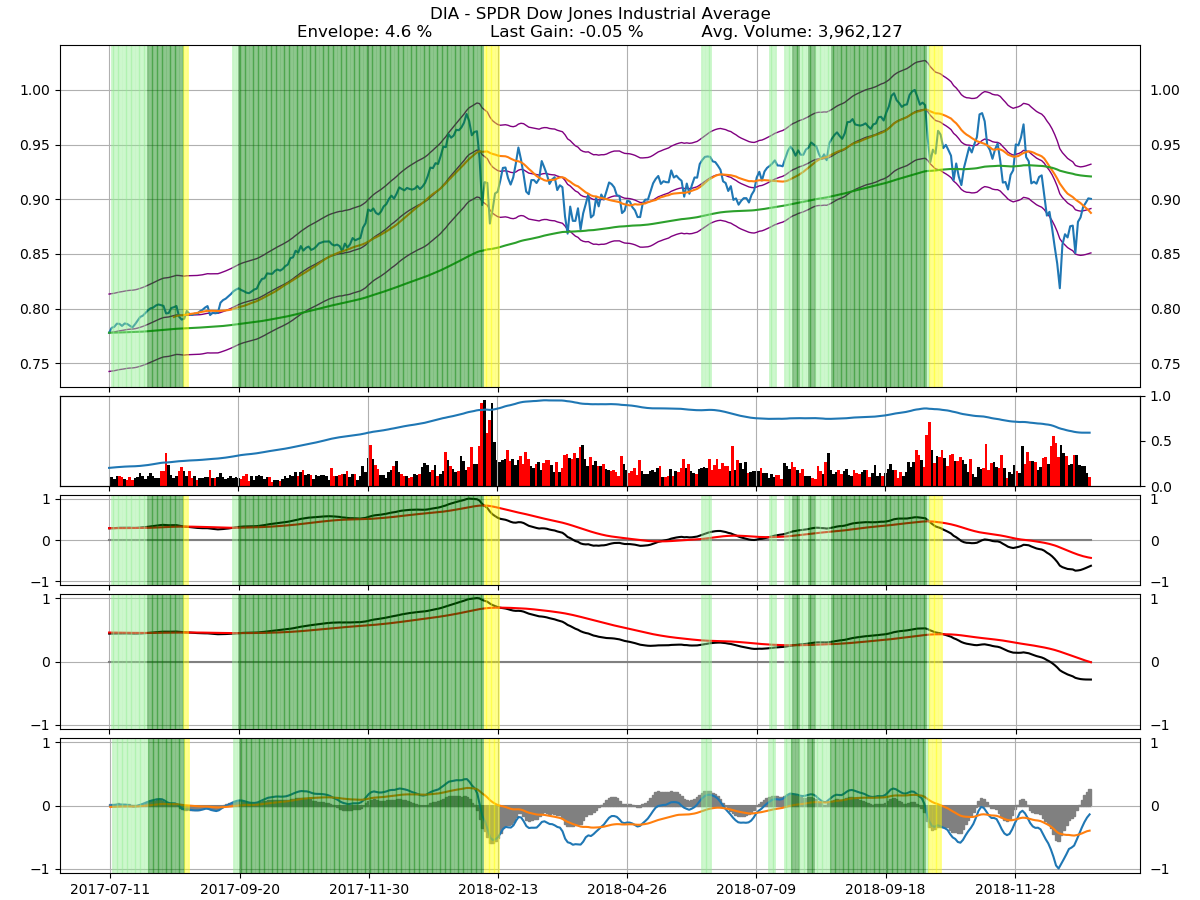
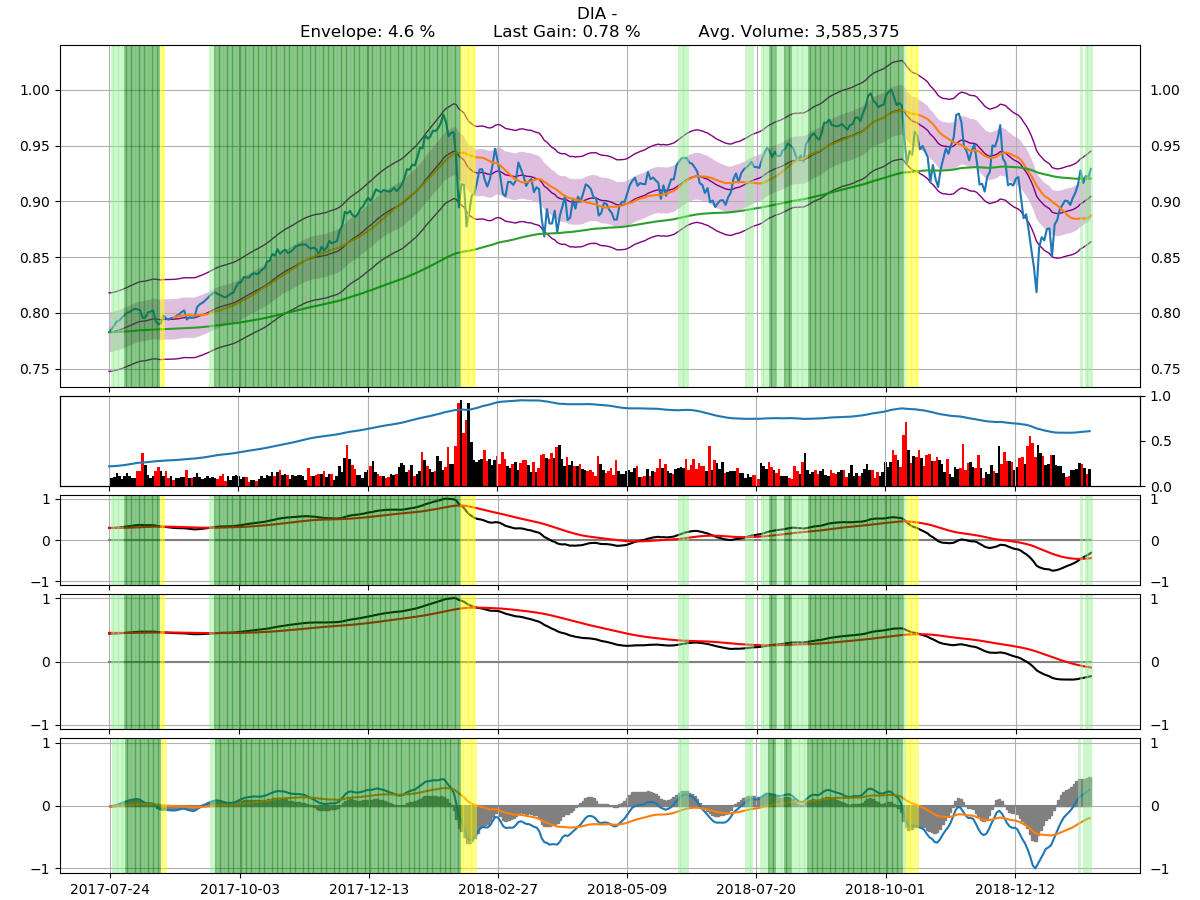
working for all of january

diff --git a/processStockData.py b/processStockData.py
@@ -38,21 +38,23 @@ class stock_data:
     def hist_prices(self, stock, end):
 
         self.stock = stock.upper()
+        # print("here1")
         try:
             self.stock_df = data.DataReader(self.stock, 'iex', self.start, end)
         except:
             print("ignore this stock 1---------------" + str(self.stock))
             return True
-
+        # print("here2")
         self.row, col = self.stock_df.shape
         if self.row < 100:
             print("not enough data" + str(self.stock))
             return True
-        print(self.stock_df.index[self.row - 1], str(end)[0:10])
+        # print(self.stock_df.index[self.row - 1], str(end)[0:10])
         if self.stock_df.index[self.row - 1] == str(end)[0:10]:
-            print("drop")
+            # print("drop")
             self.stock_df = self.stock_df.drop(self.stock_df.index[self.row - 1])
             self.row, col = self.stock_df.shape
+        # print("here3")
         if self.stock_df.index[self.row - 1] != str(end)[0:10]:
             stock_quote = iex.Stock(self.stock)
             try:
@@ -78,13 +80,18 @@ class stock_data:
                 f_day.index.name = 'date'
                 self.stock_df = self.stock_df.append(f_day.ix[0])
 
+        # print("here4")
         self.row, col = self.stock_df.shape
-
+        # print(self.stock_df)
+        if self.stock_df.isnull().values.any() == True:
+            print("nans in stockdf", stock)
+            return True
+        # print("here41")
         self.stock_df = self.stock_df.set_index(pd.to_datetime(self.stock_df.index))
         self.data_years = self.row - int(round(253 * self.pull_years, 0))
         self.stock_df['date'] = self.stock_df.index.map(mdates.date2num)
         self.stock_df['averaged_close'] = self.stock_df['close'].ewm(span=4, adjust=False).mean()
-
+        # print("here42")
         # calculate MACD parameters
         self.stock_df['ema12'] = self.stock_df['close'].ewm(span=30, adjust=False).mean()
         self.stock_df['ema26'] = self.stock_df['close'].ewm(span=65, adjust=False).mean()
@@ -96,16 +103,22 @@ class stock_data:
         self.stock_df['weekly_red'] = self.stock_df['weekly_black'].ewm(span=45, adjust=False).mean()
         self.stock_df['sma_26'] = self.stock_df['close'].rolling(window=26).mean()
         self.stock_df['ema_200'] = self.stock_df['close'].ewm(span=200, adjust=False).mean()
-
+        # print("here43")
         env_percent = .04
         self.stock_df['fit_env'] = 0
+        # pd.set_option('display.max_rows', 5000)
+
+
+        # print(self.stock_df['high'].isnull().values.any())
         while self.stock_df['fit_env'].mean() <= .9:
             self.stock_df['ema26_highenv'] = self.stock_df['ema26'] * (1 + env_percent)
             self.stock_df['ema26_lowenv'] = self.stock_df['ema26'] * (1 - env_percent)
             self.stock_df['fit_env'] = np.where((self.stock_df['ema26_highenv'] >= self.stock_df['high']) &
                                                 (self.stock_df['ema26_lowenv'] <= self.stock_df['low']), 1, 0)
+            # print(self.stock_df['fit_env'].mean())
             env_percent += .005
 
+        # print("here5")
         pd.options.mode.chained_assignment = None
         self.stock_df['obv_volume'] = 0
         self.stock_df['obv_volume'][0] = self.stock_df['volume'][0]
@@ -125,13 +138,17 @@ class stock_data:
 
 
         self.stock_df['close_from_top_env'] = self.stock_df['ema26_highenv'] - self.stock_df['close']
+        print(self.row)
         if self.row > 5:
             self.stock_df['daily_black_deriv'] = np.gradient(self.stock_df['daily_black'])
             self.stock_df['daily_red_deriv'] = np.gradient(self.stock_df['daily_red'])
             self.stock_df['weekly_black_deriv'] = np.gradient(self.stock_df['weekly_black'])
             self.stock_df['weekly_red_deriv'] = np.gradient(self.stock_df['weekly_red'])
             self.stock_df['ema_200_slope'] = np.gradient(self.stock_df['ema_200'])
-
+        elif self.row < 5:
+            print("gradient row error", str(self.stock))
+            return True
+        # print("here6")
         self.stock_df['decision'] = 0
         self.stock_df['stock-name'] = stock
         self.stock_df['performance'] = 0
@@ -139,6 +156,11 @@ class stock_data:
         self.short_stock_df = self.stock_df[self.data_years:]
         self.short_norm_stock_df = self.stock_df[self.data_years:]
         self.row, col = self.short_norm_stock_df.shape
+
+        if self.row < 5:
+            print("gradient row error", str(self.stock))
+            return True
+
         self.short_norm_stock_df['open'] = self.short_norm_stock_df['open'] / self.short_norm_stock_df['open'].max()
         self.short_norm_stock_df['high'] = self.short_norm_stock_df['high'] / self.short_norm_stock_df['high'].max()
         self.short_norm_stock_df['low'] = self.short_norm_stock_df['low'] / self.short_norm_stock_df['low'].max()
@@ -158,7 +180,7 @@ class stock_data:
 
         self.short_norm_stock_df['daily_black'] = self.short_norm_stock_df['daily_black'] / daily_max
         self.short_norm_stock_df['daily_red'] = self.short_norm_stock_df['daily_red'] / daily_max
-
+        # print("here7")
         weekly_max = self.short_norm_stock_df['weekly_black'].abs().max()
         if weekly_max < self.short_norm_stock_df['weekly_red'].abs().max():
             weekly_max = self.short_norm_stock_df['weekly_red'].abs().max()
@@ -166,6 +188,7 @@ class stock_data:
         self.short_norm_stock_df['weekly_black'] = self.short_norm_stock_df['weekly_black'] / weekly_max
         self.short_norm_stock_df['weekly_red'] = self.short_norm_stock_df['weekly_red'] / weekly_max
         self.short_norm_stock_df['fit_env'] = 0
+        self.env_percent = 0.04
         while self.short_norm_stock_df['fit_env'].mean() <= .95:
             self.short_norm_stock_df['ema26_highenv'] = self.short_norm_stock_df['ema26'] * (1 + self.env_percent)
             self.short_norm_stock_df['ema26_lowenv'] = self.short_norm_stock_df['ema26'] * (1 - self.env_percent)
@@ -207,7 +230,7 @@ class stock_data:
             self.short_norm_stock_df['weekly_black_deriv'] = self.short_norm_stock_df['weekly_black_deriv'] / weekly_slope_max
             self.short_norm_stock_df['weekly_red_deriv'] = self.short_norm_stock_df['weekly_red_deriv'] / weekly_slope_max
             self.short_norm_stock_df['weekly_slope_histogram'] = self.short_norm_stock_df['weekly_black_deriv'] - self.short_norm_stock_df['weekly_red_deriv']
-
+        # print("here8")
         return False
 
     def plot_chart(self):
@@ -236,6 +259,7 @@ class stock_data:
         ax.plot(np.arange(len(self.short_norm_stock_df.index)), self.short_norm_stock_df['close'])
         ax.plot(np.arange(len(self.short_norm_stock_df.index)), self.short_norm_stock_df['sma_26'])
         ax.plot(np.arange(len(self.short_norm_stock_df.index)), self.short_norm_stock_df['ema_200'])
+        ax.fill_between(np.arange(len(self.short_norm_stock_df.index)), self.short_norm_stock_df['ema26']*(1 + self.env_percent/2), self.short_norm_stock_df['ema26']*(1 - self.env_percent/2), facecolor='purple', alpha=0.25)
 
         ax.set_title(self.stock + " - " + self.stock_name + "\nEnvelope: " + str(round(self.env_percent*100,1)) + " %" + "           " + self.last_gain + "           Avg. Volume: " + str("{:,}".format(int(self.avg_volume))))
         ax.grid(True, which='both')
@@ -311,8 +335,8 @@ class stock_data:
         if len(stock_gain) == 0:
             print("length zero")
             stock_gain = pd.DataFrame(data=[0])
-        print(round(stock_gain, 1))
-        print("Mean gain: ", round(stock_gain.mean(), 1), "%")
+        # print(round(stock_gain, 1))
+        # print("Mean gain: ", round(stock_gain.mean(), 1), "%")
 
         i = 0
         price_up = 0
@@ -321,14 +345,14 @@ class stock_data:
         ax.fill
         for i in range(1, self.row):
             if self.weekly_red_above_zero(i) == True and self.daily_red_above_zero(i) == True and self.price_above_EMA200(i) == True and self.obv_volume_slope_up(i) == True and self.EMA200_slope_up(i) == True:# and crossed_up == False:
-                if i + 1 != self.row:
-                    price_up = self.short_norm_stock_df['open'][i + 1]
-
-                    ax.axvline(x=i, color='green', linewidth=2, alpha=0.5)
-                    ax3.axvline(x=i, color='green', linewidth=2, alpha=0.5)
-                    ax4.axvline(x=i, color='green', linewidth=2, alpha=0.5)
-                    ax6.axvline(x=i, color='green', linewidth=2, alpha=0.5)
-                    bought = True
+                # if i + 1 != self.row:
+                    # price_up = self.short_norm_stock_df['open'][i + 1]
+                # print(i, self.short_norm_stock_df.index[i])
+                ax.axvline(x=i, color='green', linewidth=2, alpha=0.5)
+                ax3.axvline(x=i, color='green', linewidth=2, alpha=0.5)
+                ax4.axvline(x=i, color='green', linewidth=2, alpha=0.5)
+                ax6.axvline(x=i, color='green', linewidth=2, alpha=0.5)
+                    # bought = True
 
             # elif self.weekly_red_above_zero(i) == False and bought == True and crossed_up == True:
             #     ax.axvline(x=i, color='red', linewidth=2)
@@ -542,6 +566,6 @@ class stock_data:
 
     def price_above_EMA200(self, effective_row):
         passCriteria = False
-        if self.short_norm_stock_df['close'][effective_row] >= self.short_norm_stock_df['ema_200_slope'][effective_row]:
+        if self.short_norm_stock_df['close'][effective_row] >= self.short_norm_stock_df['ema_200'][effective_row]:
             passCriteria = True
         return passCriteria

diff --git a/stocks.py b/stocks.py
@@ -39,7 +39,7 @@ old_stock = ""
 while True:
 
     current_time = dt.datetime.now()
-    if current_time.hour == 16 and current_time.minute == 30:
+    if current_time.hour == 16 and current_time.minute == 1:
         my_gui.pull_list_date_entry.delete(0, tk.END)
         my_gui.pull_list_date_entry.insert(tk.END, str(dt.datetime(current_time.year, current_time.month, current_time.day))[0:10])
         my_gui.update_pull_list_date("yes")
@@ -47,14 +47,23 @@ while True:
     if my_gui.state == "pull":
 
         if my_gui.stock != old_stock:
-
+            # print("stock")
             err = stock_params.hist_prices(my_gui.stock, my_gui.pull_date)
+            # print(err)
             if err == False:
+                # print("stock")
                 stock_gain = stock_params.plot_chart()
                 my_gui.plot_stock_gain_tab1(stock_gain)
                 my_gui.plot_fig_tab1()
+                # print("stock")
                 my_gui.trend_status = stock_params.check_trends(stock_params.row)
                 print(my_gui.trend_status)
+                result = [stock_params.weekly_red_above_zero(stock_params.row - 1),
+                          stock_params.daily_red_above_zero(stock_params.row - 1),
+                          stock_params.price_above_EMA200(stock_params.row - 1),
+                          stock_params.obv_volume_slope_up(stock_params.row - 1),
+                          stock_params.EMA200_slope_up(stock_params.row - 1)]
+                print("result", result)
             old_stock = my_gui.stock
 
     elif my_gui.state == "pull list":
@@ -71,27 +80,48 @@ while True:
         x = 0
         for x in range(0, len(stock_list)):
             stock = stock_list[0][x]
+            # print("1", stock)
             err = stock_params.hist_prices(stock, my_gui.pull_list_date)
+            # print("2", stock)
             if err == False:
                 stock_params.slope_crossover_history()
+                # print("3", stock)
                 my_gui.pull_list_stock = stock
                 if stock_params.row > 200:
-                    result = stock_params.weekly_red_slope_crossover_zero(stock_params.row - 1)
+                    # result = stock_params.weekly_red_slope_crossover_zero(stock_params.row - 1)
                     result = [stock_params.weekly_red_above_zero(stock_params.row - 1), stock_params.daily_red_above_zero(stock_params.row - 1), stock_params.price_above_EMA200(stock_params.row - 1), stock_params.obv_volume_slope_up(stock_params.row - 1), stock_params.EMA200_slope_up(stock_params.row - 1)]
-                    if my_gui.csv_variable != "total_stock_list":
-                        result = [True, True, True, True, True]
-                    print(stock, result)
-                    if (result == [True, True, True, True, True] or result == [True, True, True, False, True] or result == [False, True, True, True, True]):# and len(stock_gain) != 0 and float(stock_gain.min()) > -20:
-                        if stock_params.short_norm_stock_df['ema26_lowenv'][stock_params.row - 1] < stock_params.short_norm_stock_df['close'][stock_params.row - 1] <= stock_params.short_norm_stock_df['ema26_highenv'][stock_params.row - 1]:
-                            if stock_params.avg_volume >= 500000 and stock_params.env_percent > 0.04:
-                                tested_stocks = tested_stocks.append(pd.Series(stock), ignore_index=True)
-                                my_gui.update_buy_list()
-                                stock_gain = stock_params.plot_chart()
-                                my_gui.pull_list_trend_dict.update({stock: stock_params.check_trends(stock_params.row)})
-                                # my_gui.pull_list_dict.update({stock:fig})
-                                my_gui.pull_list_stock_gain_dict.update({stock: stock_gain})
-                                print("possible buy", tested_stocks)
+                    print("result", result)
+                    if my_gui.csv_variable == "total_stock_list" or my_gui.csv_variable == "zacks":
+                        print(stock, str(stock_params.short_norm_stock_df.index[stock_params.row - 1])[0:10])
+                        # if (result == [True, True, True, True, True] or result == [True, True, True, False, True] or result == [False, True, True, True, True]):
+                        if (result == [True, True, True, True, True]):
+                            yest = 1
+                            firstResult = result
+                            # while (result == [True, True, True, True, True] or result == [True, True, True, False, True] or result == [False, True, True, True, True]):
+                            while (result == [True, True, True, True, True]):
+                                result = [stock_params.weekly_red_above_zero(stock_params.row - 1 - yest), stock_params.daily_red_above_zero(stock_params.row - 1 - yest) ,stock_params.price_above_EMA200(stock_params.row - 1 - yest), stock_params.obv_volume_slope_up(stock_params.row - 1 - yest), stock_params.EMA200_slope_up(stock_params.row - 1 - yest)]
+                                yest += 1
+                            print(yest, stock_params.short_norm_stock_df.index[stock_params.row - 1], firstResult)
+                            if yest <= 20 and yest >= 2:
+                                if stock_params.short_norm_stock_df['ema26_lowenv'][stock_params.row - 1] < stock_params.short_norm_stock_df['close'][stock_params.row - 1] <= stock_params.short_norm_stock_df['ema26_highenv'][stock_params.row - 1]:
+                                    if stock_params.avg_volume >= 500000 and stock_params.env_percent > 0.04 and str(stock_params.short_norm_stock_df.index[stock_params.row - 1])[0:10] == my_gui.pull_list_date:
+                                        tested_stocks = tested_stocks.append(pd.Series(stock), ignore_index=True)
+                                        my_gui.update_buy_list()
+                                        stock_gain = stock_params.plot_chart()
+                                        my_gui.pull_list_trend_dict.update({stock: stock_params.check_trends(stock_params.row)})
+                                        # my_gui.pull_list_dict.update({stock:fig})
+                                        my_gui.pull_list_stock_gain_dict.update({stock: stock_gain})
+                                        print("possible buy", len(tested_stocks))
+                    else:
+                        tested_stocks = tested_stocks.append(pd.Series(stock), ignore_index=True)
+                        my_gui.update_buy_list()
+                        stock_gain = stock_params.plot_chart()
+                        my_gui.pull_list_trend_dict.update({stock: stock_params.check_trends(stock_params.row)})
+                        # my_gui.pull_list_dict.update({stock:fig})
+                        my_gui.pull_list_stock_gain_dict.update({stock: stock_gain})
+                        print("possible buy", len(tested_stocks))
 
+            # print("here")
             my_gui.update_pull_list_status()
             root.update_idletasks()
             root.update()

diff --git a/stockGui.py b/stockGui.py
@@ -105,7 +105,7 @@ class gui:
         self.csv_var = tk.StringVar(self.tab2)
         self.csv_var.set(self.csv_variable)  # default value
 
-        self.csv_menu = tk.OptionMenu(self.tab2, self.csv_var, "total_stock_list", "industry_stock_list", "XLE-energy", "XLB-materials", "XLI-industrials", "XLP-consumer discretionary", "XLY-consumer staples", "XLV-health care", "XLF-financials", "XLK-technology", "XLC-telecommunication", "XLU-utilities", "XLRE-real estate")
+        self.csv_menu = tk.OptionMenu(self.tab2, self.csv_var, "total_stock_list", "industry_stock_list", "XLE-energy", "XLB-materials", "XLI-industrials", "XLP-consumer discretionary", "XLY-consumer staples", "XLV-health care", "XLF-financials", "XLK-technology", "XLC-telecommunication", "XLU-utilities", "XLRE-real estate", "portfolio", "zacks")
         self.csv_menu.grid(row=1, column=3, pady=15)
 
 
